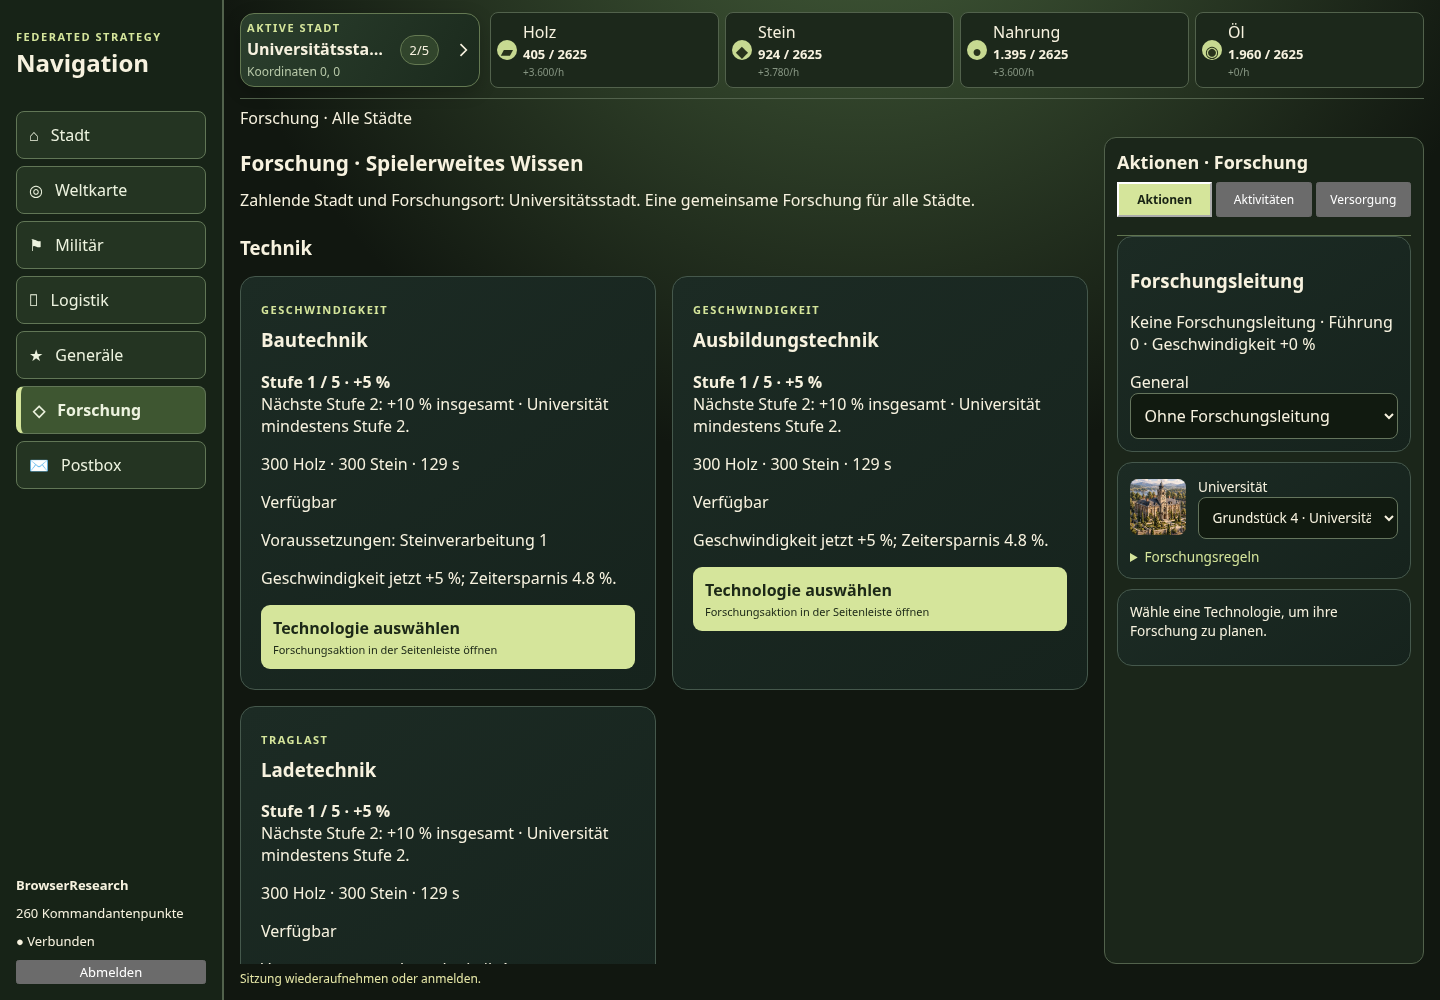
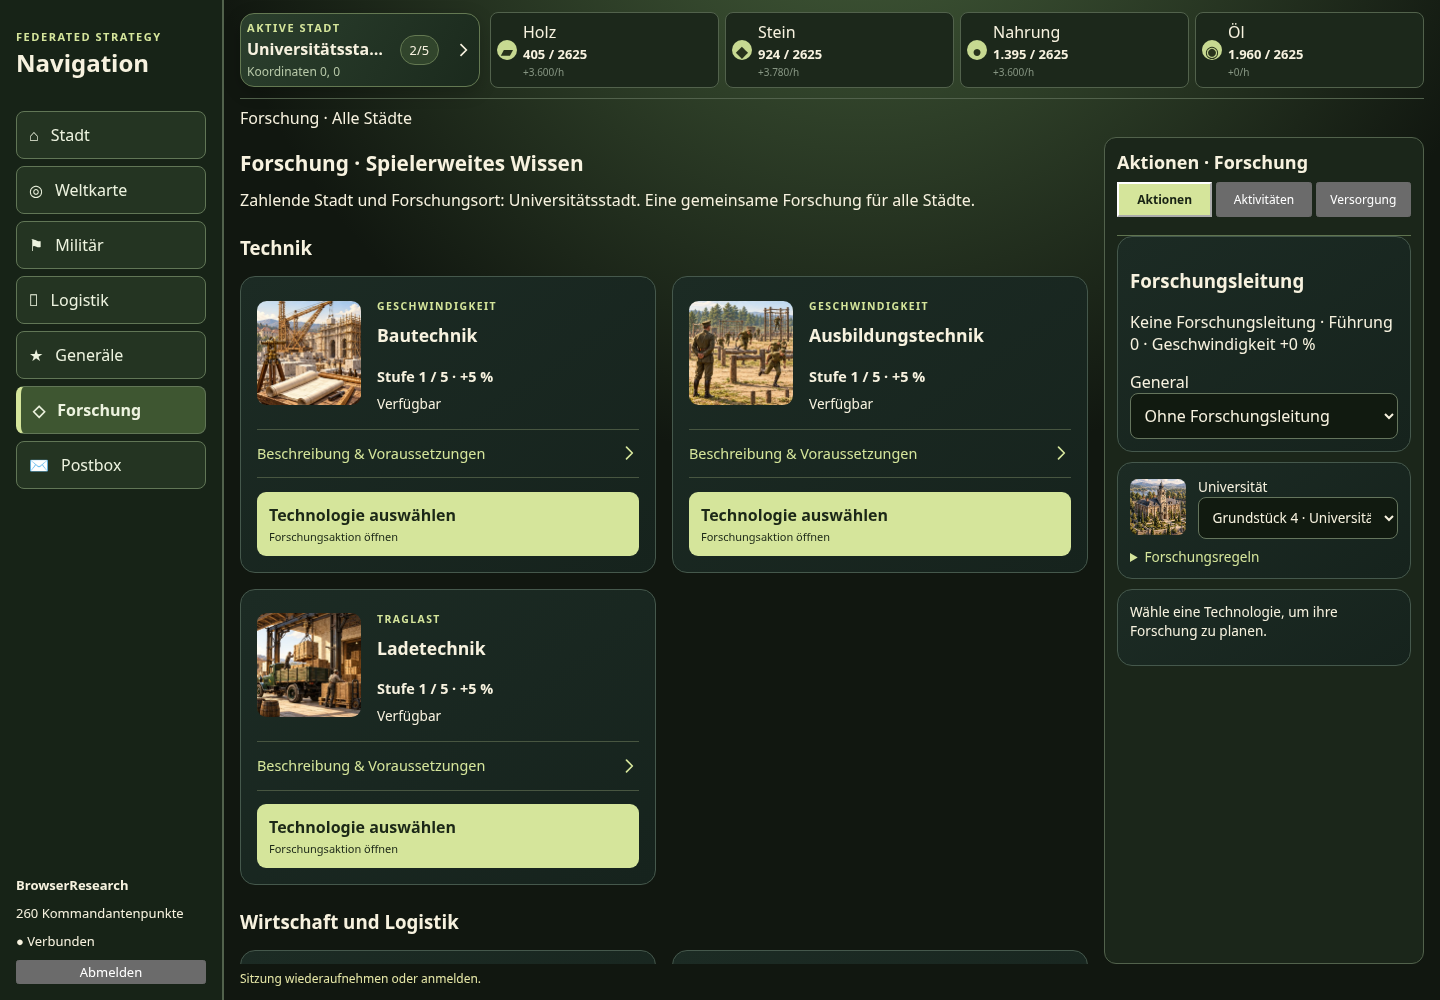
feat: illustrate research and collapse detailed descriptions

Changed region(s): [[0.1562, 0.279, 0.75, 0.961]]

diff --git a/apps/client/src/ResearchView.jsx b/apps/client/src/ResearchView.jsx
@@ -1,3 +1,4 @@
+import { ResearchArt } from './ResearchArt.jsx';
 import { SidebarActions } from './SidebarActions.jsx';
 import { Fragment, useCallback, useState } from 'react';
 import { ActionButton, BuildingArt, Dialog, formatDuration, quoteText } from './ui.jsx';
@@ -54,14 +55,16 @@ export function ResearchView({ state, transport }) {
     </SidebarActions><div className="research-grid">{state.researchOffers.toSorted((a,b) => a.category.localeCompare(b.category)).map((offer, index, offers) => {
       const university = offer.universities.find(item => item.universityId === selected?.buildingId);
       const reason = offer.nextLevel == null ? 'Maximale Stufe erreicht.' : university?.reason ?? offer.reason;
-      return <Fragment key={offer.technology}>{offers[index - 1]?.category !== offer.category && <h3 className="research-group">{offer.category}</h3>}<section className={`card${technology === offer.technology ? ' selected-technology' : ''}`} key={offer.technology}><span className="kicker">{offer.kind === 'unlock' ? 'FREISCHALTUNG' : offer.kind === 'capacity' ? 'LAGERKAPAZITÄT' : offer.kind === 'production' ? 'PRODUKTION' : offer.kind === 'cargo' ? 'TRAGLAST' : 'GESCHWINDIGKEIT'}</span><h3>{offer.label}</h3><strong>Stufe {offer.level} / {offer.maxLevel}{offer.kind !== 'unlock' && ` · +${Math.round(offer.level * offer.bonusPerLevel * 100)} %`}</strong>
+      return <Fragment key={offer.technology}>{offers[index - 1]?.category !== offer.category && <h3 className="research-group">{offer.category}</h3>}<section className={`card research-card${technology === offer.technology ? ' selected-technology' : ''}`} key={offer.technology}><div className="research-card-heading"><ResearchArt technology={offer.technology} label={offer.label}/><div><span className="kicker">{offer.kind === 'unlock' ? 'FREISCHALTUNG' : offer.kind === 'capacity' ? 'LAGERKAPAZITÄT' : offer.kind === 'production' ? 'PRODUKTION' : offer.kind === 'cargo' ? 'TRAGLAST' : 'GESCHWINDIGKEIT'}</span><h3>{offer.label}</h3><strong>Stufe {offer.level} / {offer.maxLevel}{offer.kind !== 'unlock' && ` · +${Math.round(offer.level * offer.bonusPerLevel * 100)} %`}</strong>
+        <p>{active?.technology === offer.technology ? 'Läuft' : offer.nextLevel == null ? 'Maximal' : reason ? 'Gesperrt' : 'Verfügbar'}</p></div></div><div className="research-card-content">
+        <details className="research-details"><summary><span>Beschreibung &amp; Voraussetzungen</span><svg className="research-caret" viewBox="0 0 24 24" width="20" height="20" aria-hidden="true"><path d="m9 5 7 7-7 7" fill="none" stroke="currentColor" strokeWidth="2" strokeLinecap="round" strokeLinejoin="round"/></svg></summary><div className="research-details-content">
         {offer.nextLevel != null && <><p>{offer.kind === 'unlock' ? `Schaltet ${offer.unlocks.map(key => state.buildings[key]?.label ?? state.units[key]?.label).join(', ')} frei. Universität ${offer.universityLevel}; ${Object.entries(offer.prerequisites).map(([key, value]) => `${state.technologies[key].label} ${value}`).join(', ')}` : `Nächste Stufe ${offer.nextLevel}: +${Math.round(offer.nextLevel * offer.bonusPerLevel * 100)} % insgesamt · Universität mindestens Stufe ${offer.requiredUniversity}.`}</p><p>{offer.nextCost.wood} Holz · {offer.nextCost.stone} Stein{university?.quote && ` · ${formatDuration(university.quote.durationMs)}`}</p></>}
-        <p>{active?.technology === offer.technology ? 'Läuft' : offer.nextLevel == null ? 'Maximal' : reason ? 'Gesperrt' : 'Verfügbar'}</p>
         {Object.keys(offer.prerequisites).length > 0 && <p>Voraussetzungen: {Object.entries(offer.prerequisites).map(([id, l]) => `${state.technologies[id].label} ${l}`).join(', ')}</p>}
         {offer.reasons.map((r, i) => <p key={i}>{r.message}</p>)}
         {['constructionSpeed', 'trainingSpeed'].includes(offer.kind) && <p>Geschwindigkeit jetzt +{Math.round((offer.factor - 1) * 100)} %; Zeitersparnis {Math.round((1 - 1 / offer.factor) * 1000) / 10} %.</p>}
-        <ActionButton label="Technologie auswählen" detail={reason ?? 'Forschungsaktion in der Seitenleiste öffnen'} disabled={loading} onClick={() => { setTechnology(offer.technology); setPreview(null); }}/>
-      </section></Fragment>;
+        </div></details>
+        <ActionButton label="Technologie auswählen" detail={technology === offer.technology ? 'Ausgewählt · Aktion im Kontextpanel' : 'Forschungsaktion öffnen'} disabled={loading} onClick={() => { setTechnology(offer.technology); setPreview(null); }}/>
+      </div></section></Fragment>;
     })}</div>
     {error && <p className="notice" role="alert">{error}</p>}
     {preview && <Dialog open kicker="FORSCHUNG BESTÄTIGEN" title={`${state.technologies[preview.technology].label} · Stufe ${preview.targetLevel}`} onClose={close} actions={<button disabled={loading} onClick={confirm}>{loading ? 'Wird gespeichert …' : 'Kosten bezahlen und starten'}</button>}>

diff --git a/apps/client/style.css b/apps/client/style.css
@@ -476,3 +476,26 @@ button:focus-visible, select:focus-visible, input:focus-visible, summary:focus-v
 }
 
 .research-group { grid-column: 1 / -1; margin: 1rem 0 0; }
+
+/* Research cards keep the overview visual; native details provide keyboard disclosure. */
+.research-card { padding: 0; overflow: hidden; align-self: start; }
+.research-card-heading { display: grid; grid-template-columns: 104px minmax(0, 1fr); gap: 1rem; align-items: center; padding: 1rem 1rem 0; }
+.research-card-heading h3 { overflow-wrap: anywhere; font-size: 1.1rem; }
+.research-card-heading .kicker { font-size: .65rem; }
+.research-card-heading strong { font-size: .9rem; }
+.research-card-heading p { margin: .45rem 0 0; font-size: .85rem; }
+.research-art { display: block; border-radius: .6rem; width: 100%; aspect-ratio: 1; background-size: 300% 300%; background-repeat: no-repeat; background-color: #263727; }
+.research-card-content { padding: 1rem; }
+.research-card-content > .kicker { display: block; }
+.research-card-content > p { margin: .65rem 0; }
+.research-details { margin: 0 0 .85rem; border-top: 1px solid #485641; border-bottom: 1px solid #485641; }
+.research-details > summary { display: flex; align-items: center; justify-content: space-between; gap: .6rem; padding: .85rem 0; cursor: pointer; list-style: none; color: #d5e59b; font-size: .9rem; }
+.research-details > summary::-webkit-details-marker { display: none; }
+.research-caret { flex-shrink: 0; transition: transform .15s ease; }
+.research-details[open] .research-caret { transform: rotate(90deg); }
+.research-details > summary:focus-visible { outline: 2px solid #d5e59b; outline-offset: 3px; border-radius: .2rem; }
+.research-details-content { padding-bottom: .5rem; font-size: .9rem; line-height: 1.5; }
+.research-details-content p { margin: 0 0 .65rem; }
+@media (prefers-reduced-motion: reduce) { .research-caret { transition: none; } }
+
+@media (max-width: 380px) { .research-card-heading { grid-template-columns: 76px minmax(0, 1fr); gap: .75rem; } }

diff --git a/apps/client/src/ResearchArt.jsx b/apps/client/src/ResearchArt.jsx
@@ -1,0 +1,14 @@
+import researchAtlas from '../assets/research-technologies.webp';
+
+const positions = {
+  forestry: [0, 0], masonry: [1, 0], agriculture: [2, 0],
+  oilProcessing: [0, 1], motorization: [1, 1], logistics: [2, 1],
+  constructionEngineering: [0, 2], trainingTechniques: [1, 2], loadingTechniques: [2, 2],
+};
+
+export function ResearchArt({ technology, label }) {
+  const position = positions[technology];
+  if (!position) return null;
+  return <span className="research-art" role="img" aria-label={`Forschungsmotiv: ${label}`}
+    style={{ backgroundImage: `url(${researchAtlas})`, backgroundPosition: `${position[0] * 50}% ${position[1] * 50}%` }}/>;
+}

diff --git a/docs/RESEARCH_EXPANSION_VALIDATION.md b/docs/RESEARCH_EXPANSION_VALIDATION.md
@@ -61,3 +61,12 @@ Die sechs bisherigen Technologien und die Migrationsketten bleiben erhalten. Sch
 Chromium-Artefakte zur Prüfung: [Desktop](screenshots/task17/desktop.png), [Mobil 390 px](screenshots/task17/mobile.png), [Mobil 320 px](screenshots/task17/mobile-320.png), [Prüfschritte als JSON](screenshots/task17/checks.json). Vollständige Laufprotokolle liegen lokal unter `work/test-final.log`, `work/expansion-network.log`, `work/build.log`, `work/browser-final.log`. Die ignorierten Testwelten und Sitzungsdateien werden nicht mitgeliefert.
 
 Die drei neuen ENV-Werte werden auch durch `compose.yaml` ausdrücklich weitergegeben, einschließlich 0. Docker-/Containerbuild und Deployment wurden in diesem Auftrag nicht ausgeführt. Die PR-Beschreibung steht oben. Vor Veröffentlichung werden zwischenzeitliche Änderungen auf main übernommen.
+
+
+## Visuelle Ergänzung: neun Motive und aufklappbare Beschreibung (18.10.2026)
+
+Jede aktive Technologie besitzt ein eigenes generiertes Bildmotiv, lokal als WebP-Bildtafel ausgeliefert. Zuordnung und Herkunft stehen in `apps/client/assets/README.md`. Kompakte Karten zeigen Bild, Namen, Stufe und Status. Genaue Wirkung, Kosten, Voraussetzungen und Sperrgründe sind standardmäßig in einem geschlossenen nativen `details`-Element verborgen. Das sichtbare Caret dreht sich beim Aufklappen; Enter/Leertaste und die native Offen-/Geschlossen-Semantik ermöglichen Tastatur- und assistive Bedienung. Die Forschungsaktion bleibt unabhängig davon erreichbar. Spiellogik und Spielstände wurden für diese Ergänzung nicht geändert.
+
+Erneut tatsächlich ausgeführt: `npm test` (230 bestanden), `npm run build` (erfolgreich), `PLAYWRIGHT_MODULE=/opt/codex/runtimes/cua/lib/node_modules/playwright/index.mjs node scripts/validate-research-ui.mjs` (erfolgreich, neun protokollierte Prüfschritte, keine JavaScript-Seitenfehler) und `git diff --check` (erfolgreich). Der Browserdurchlauf prüft zusätzlich neun geladene Bildmotive, zunächst geschlossene Beschreibungen sowie das einzelne Auf-/Zuklappen aller neun Karten per Tastatur. Auf Mobil wird die Beschreibung zusätzlich per Klick geöffnet und wieder geschlossen. Desktop 1440×1000, Mobil 390×844 und 320×844 bleiben ohne horizontalen Dokumentüberlauf. Der vollständige bisherige Forschungs-/Mehrstadt-/Neustartpfad wird weiterhin durchgespielt.
+
+Die Desktop-/Mobil-Screenshots wurden aktualisiert und visuell geprüft; [aufgeklappte mobile Beschreibung](screenshots/task17/mobile-details.png). Laufprotokolle dieser Ergänzung: `work/research-visual-test.log`, `work/research-visual-build.log`, `work/research-visual-browser.log`. Die oben genannten Grenzen (Headless-Chromium, vorbereitete Testwelt, keine physischen Geräte oder Screenreaderprüfung) gelten weiter.

diff --git a/apps/client/assets/README.md b/apps/client/assets/README.md
@@ -42,3 +42,21 @@ Die vorhandene eigene Bildtafel `game-art.png` diente als Stilreferenz: fiktive 
 `apps/client/building-art.js` beschreibt Beschriftung und Rasterposition. `BuildingArt` bindet die typabhängige Datei und tatsächliche Stufe ein. Hintergrundgröße 500%×200%, Positionen horizontal 0/25/50/75/100% und vertikal 0/100%. Quadratische Bildflächen verhindern Verzerrung oder den Anschnitt benachbarter Stufen. Vite versieht jede Bildreihe mit einem Inhalts-Hash; der Browser lädt sie von derselben lokalen Spielinstanz.
 
 Neubauangebote zeigen Stufe 1. Bei einem laufenden Ausbau bleibt das aktuelle Motiv erhalten, bis der Server den Abschluss meldet. Die Universität in der Forschung zeigt die ausgewählte Universität, auch wenn mehrere unterschiedlich ausgebaute Gebäude vorhanden sind. Spielstände benötigen keine Migration, da bestehende Gebäudestufen die Auswahl bestimmen. Die älteren Bildtafeln und SVGs bleiben für Truppen, Stadtmotive und bestehende URLs erhalten.
+
+## Forschungsbilder (18.10.2026)
+
+`research-technologies.webp` enthält neun eigens mit OpenAI Image Generation erstellte Motive in einem gleichmäßigen 3×3-Raster (1254×1254 Pixel). Die PNG-Quelle wurde ohne Motivänderung oder Skalierung als WebP mit Qualität 88 codiert. Keine übernommenen War2Glory-Grafiken, echten Marken oder externen Bildanfragen. Stil: warmes Licht, gedeckte Olivfarben und realistisch gemalte frühindustrielle Werkzeuge und Anlagen, passend zu den bestehenden eigenen Spielbildern.
+
+| Rasterposition | Stabile Forschungs-ID | Motiv |
+| --- | --- | --- |
+| Oben links | forestry | Sägewerk, Säge und Baumstämme |
+| Oben Mitte | masonry | Steinbruch, Hammer und Meißel |
+| Oben rechts | agriculture | Getreide, Felder und Erntegerät |
+| Mitte links | oilProcessing | Destillationsapparatur und Raffinerie |
+| Mitte | motorization | Offener Motor und LKW-Werkstatt |
+| Mitte rechts | logistics | Geordnete Lagerregale und Bestandsbuch |
+| Unten links | constructionEngineering | Baupläne, Vermessung und Baustelle |
+| Unten Mitte | trainingTechniques | Ausbilder und Hindernisparcours |
+| Unten rechts | loadingTechniques | Verladekran und Fracht-LKW |
+
+`ResearchArt` ordnet stabile IDs den neun unterschiedlichen Ausschnitten zu. Quadratische Bildflächen und `background-size: 300% 300%` zeigen jedes Motiv vollständig. Vite versioniert die lokal ausgelieferte Bilddatei. Die Bilder beeinflussen weder Forschungswerte noch Spielstände; die Technologie bleibt zusätzlich als Text beschriftet.

diff --git a/README.md b/README.md
@@ -239,3 +239,5 @@ Neun aktive Technologien im gemeinsamen, versionierten Katalog: Die sechs bisher
 Je neuer Zielstufe L: 150×L Holz und Stein, 90×L Sekunden vor bestehendem Universitäts-/Leitungsbonus. Standardwirkung je Stufe +5 % Geschwindigkeit beziehungsweise Traglast. +25 % Geschwindigkeit bedeutet 20 % Zeitersparnis. Bau-/Ausbildungsaufträge und Reisen speichern ihre Werte bei Annahme; bestehende bezahlte Aktionen werden nicht nachträglich verändert. Ladetechnik erhöht Frachtraum, Lagerlogistik weiterhin Stadtlager. Späher- und General-Diensttransporttanks bleiben unverändert.
 
 Die drei `RESEARCH_*_BONUS_BPS` in `.env.example` erlauben ganze 0–2000 Basispunkte je Stufe (Standard 500). Ein Neustart speichert den Regelwechsel mit Aktivierungszeit. Spielerschema 17 und Weltschema 4 bleiben bestehen; fehlende neue Wissensstände werden mit 0 ergänzt. Forschungsaufträge der Versionen 1–3 bleiben abschließbar. Tests, Browserprüfungen und Grenzen: [RESEARCH_EXPANSION_VALIDATION.md](docs/RESEARCH_EXPANSION_VALIDATION.md).
+
+Die neun Forschungsarten besitzen jeweils ein eigenes Bildmotiv. Die Karten zeigen Bild, Namen, Stufe und Status; genaue Wirkung, Preise und Voraussetzungen werden erst über das Caret „Beschreibung & Voraussetzungen“ aufgeklappt. Die Aufklappfunktion ist auch mit Tastatur bedienbar.
